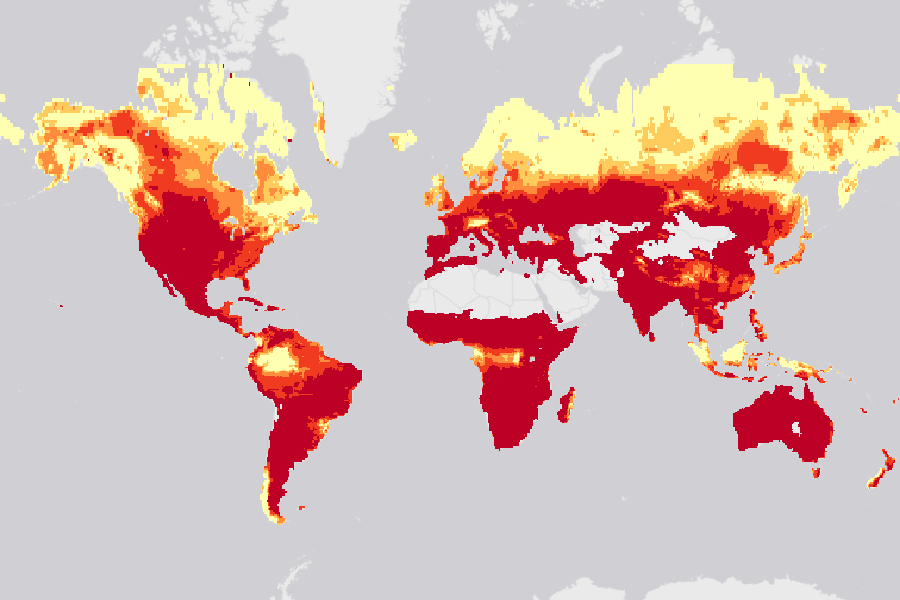
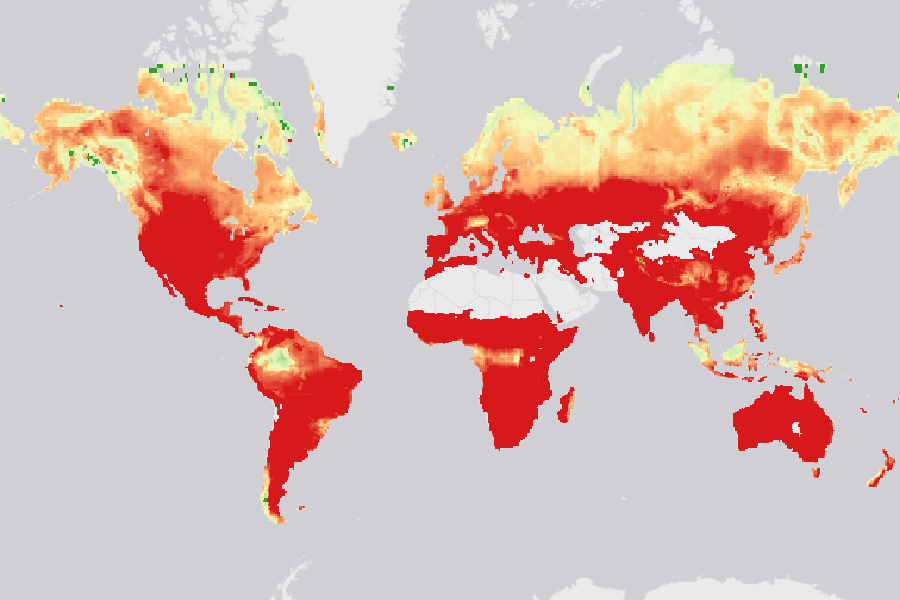
fix: use a render the extension schema accepts
The registry rejected the three collections. The render extension
schema, v2.0.0 and v2.1.0, allows colormap only as an object. The renders
used titiler's interval list.

Each render now uses colormap_name rdylgn with rescale [[50, 0]]. FWI 0
draws green and FWI 50 draws red, the scale of Figure 4 in the technical
basis. The thumbnails use the browser's rdylgn stops.

tests/test_extension_schemas.py validates each STAC object against the
core schema and each declared extension schema, as the registry does.

Refs portolan-sdi/portolan-data#63

diff --git a/tests/test_extension_schemas.py b/tests/test_extension_schemas.py
@@ -1,0 +1,78 @@
+#!/usr/bin/env python3
+"""Every STAC object validates against its core schema and each extension schema.
+
+The registry runs stac-node-validator, which checks each object against the
+STAC 1.1.0 core schema and against every URL in its stac_extensions. This
+gate runs the same checks with jsonschema. stac-check does not cover them
+here, because test_stac_valid.py exempts the collections from a stac-check
+crash.
+
+The gate fetches each schema and every schema it references over HTTPS.
+
+Run: python3 tests/test_extension_schemas.py
+"""
+from __future__ import annotations
+
+import json
+import sys
+import urllib.request
+from functools import cache
+from pathlib import Path
+
+from jsonschema import Draft7Validator, validators
+from referencing import Registry, Resource
+from referencing.jsonschema import DRAFT7
+
+ROOT = Path(__file__).resolve().parent.parent
+CATALOG = ROOT / "catalog"
+CORE = {
+    "Catalog": "https://schemas.stacspec.org/v1.1.0/catalog-spec/json-schema/catalog.json",
+    "Collection": "https://schemas.stacspec.org/v1.1.0/collection-spec/json-schema/collection.json",
+    "Feature": "https://schemas.stacspec.org/v1.1.0/item-spec/json-schema/item.json",
+}
+
+
+@cache
+def fetch(url: str) -> dict:
+    request = urllib.request.Request(url, headers={"User-Agent": "wb-fwi-schemas"})
+    with urllib.request.urlopen(request, timeout=60) as response:
+        return json.loads(response.read())
+
+
+def retrieve(uri: str) -> Resource:
+    return Resource.from_contents(fetch(uri.split("#")[0]), default_specification=DRAFT7)
+
+
+REGISTRY = Registry(retrieve=retrieve)
+
+
+def validate(document: dict, url: str) -> list[str]:
+    schema = fetch(url)
+    cls = validators.validator_for(schema, default=Draft7Validator)
+    validator = cls(schema, registry=REGISTRY)
+    return [
+        f"{'/'.join(str(p) for p in error.absolute_path) or '(root)'}: {error.message[:160]}"
+        for error in sorted(validator.iter_errors(document), key=lambda e: list(e.absolute_path))
+    ]
+
+
+def main() -> int:
+    failures = []
+    count = 0
+    for path in sorted(CATALOG.rglob("*.json")):
+        document = json.loads(path.read_text())
+        rel = path.relative_to(ROOT)
+        for url in [CORE[document["type"]], *document.get("stac_extensions", [])]:
+            count += 1
+            for error in validate(document, url):
+                failures.append(f"{rel}: {url}: {error}")
+    for failure in failures:
+        print(f"FAIL: {failure}")
+    if failures:
+        return 1
+    print(f"PASS: {count} schema validations across the catalog")
+    return 0
+
+
+if __name__ == "__main__":
+    sys.exit(main())

diff --git a/tools/thumbnail.py b/tools/thumbnail.py
@@ -10,8 +10,9 @@ script draws the COG itself:
 
 1. Frame the collection bbox to the 3:2 card shape in Web Mercator.
 2. Draw the Esri World Light Gray basemap, the first basemap the skill tries.
-3. Draw the collection's first render over it, with that render's colormap
-   and nodata. The thumbnail shows what the browser shows.
+3. Draw the collection's first render over it, with the browser's ramp for
+   its colormap_name, its rescale, and its nodata. The thumbnail shows what
+   the browser shows.
 4. Fail when fewer than MIN_DATA_FRACTION of the pixels show data. This is
    the skill's blank probe. A person still looks at the image.
 
@@ -90,16 +91,31 @@ def basemap() -> np.ndarray:
     return np.asarray(world).transpose(2, 0, 1)
 
 
+# The ramps the Portolan browser draws for a render's colormap_name, as
+# [t, [r, g, b]] stops. Copied from src/utils/renders.js in portolan-browser,
+# so the thumbnail matches the map.
+RAMPS = {
+    "rdylgn": [
+        (0.0, (215, 25, 28)),
+        (0.7, (254, 195, 121)),
+        (0.8, (243, 250, 187)),
+        (0.9, (207, 236, 176)),
+        (1.0, (51, 160, 44)),
+    ],
+}
+
+
 def colorize(values: np.ndarray, render: dict) -> np.ndarray:
-    """RGBA from the render's interval colormap. Nodata and gaps stay clear."""
+    """RGBA from the render's named ramp and rescale. Nodata stays clear."""
+    stops = RAMPS[render["colormap_name"]]
+    low, high = render["rescale"][0]
+    t = np.nan_to_num(np.clip((values - low) / ((high - low) or 1), 0, 1))
+    positions = [stop for stop, _ in stops]
     rgba = np.zeros((4,) + values.shape, dtype=np.uint8)
-    intervals = sorted(render["colormap"], key=lambda entry: entry[0][0])
-    top = intervals[-1][0][1]
-    for (low, high), color in intervals:
-        inside = (values >= low) & ((values < high) | ((high == top) & (values == high)))
-        for channel in range(3):
-            rgba[channel][inside] = color[channel]
-        rgba[3][inside] = color[3] if len(color) == 4 else 255
+    for channel in range(3):
+        ramp = [color[channel] for _, color in stops]
+        rgba[channel] = np.round(np.interp(t, positions, ramp)).astype(np.uint8)
+    rgba[3] = np.where(np.isfinite(values), 255, 0)
     nodata = render.get("nodata")
     for value in nodata if isinstance(nodata, list) else [nodata]:
         if value is not None:

diff --git a/tests/test_agent_claims.py b/tests/test_agent_claims.py
@@ -292,16 +292,17 @@ def check_non_monotonic(rp: int | None) -> list[str]:
     return out
 
 
-def check_render_breaks(rp: int | None) -> list[str]:
-    breaks = set()
+def check_render_ramp(rp: int | None) -> list[str]:
     for p in RETURN_PERIODS:
-        for render in collection(p)["renders"].values():
-            assert render["nodata"] == 0, "a render draws the masked cells"
-            assert render["assets"] == ["data"], render["assets"]
-            breaks |= {e for (low, high), _ in render["colormap"] for e in (low, high)}
-    top = max(float(grid(p).max()) for p in RETURN_PERIODS)
-    assert breaks == {0, 15, 20, 30, 50, top}, f"unexpected breaks {sorted(breaks)}"
-    return ["plus 50"]
+        renders = list(collection(p)["renders"].values())
+        assert len(renders) == 1, f"{collection_id(p)} has {len(renders)} renders"
+        render = renders[0]
+        assert render["assets"] == ["data"], render["assets"]
+        assert render["nodata"] == 0, "the render draws the masked cells"
+        assert render["colormap_name"] == "rdylgn", render["colormap_name"]
+        assert "colormap" not in render, "the render also sets a colormap"
+        low, high = render["rescale"][0]
+    return [f"green at FWI {fmt(high)} to red at FWI {fmt(low)}"]
 
 
 def check_self_links(rp: int | None) -> list[str]:

diff --git a/tests/run_all.py b/tests/run_all.py
@@ -18,6 +18,7 @@ TESTS = [
     "test_upload_data.py",
     "test_stac_valid.py",
     "test_conformance.py",
+    "test_extension_schemas.py",      # fetches the schemas over HTTPS
     "test_agent_claims.py",           # needs tools/build.py first
     "test_agent_claims_mutation.py",  # needs tools/build.py first
 ]

diff --git a/catalog/AGENTS.md b/catalog/AGENTS.md
@@ -103,8 +103,9 @@ ThinkHazard! reports a class per administrative unit. This catalog holds the
 grids, not the per-unit classes.
 <!-- quote: pdf | 8 | the scale of administrative units used in ThinkHazard! -->
 
-The browser colors use the same thresholds, plus 50, the top of the color
-scale in Figure 4 of the technical basis. <!-- check: render_breaks -->
+The browser colors run from green at FWI 0 to red at FWI 50 and above, the
+color scale of Figure 4 in the technical basis. The colors show the FWI value,
+not the hazard classes. <!-- check: render_ramp -->
 <!-- quote: pdf | 13 | Figure 4: Modelled yearly maximum 12 noon FWI for return period intervals of 2, 10 and 30 years. FWI is colour coded from green (FWI = 0) to red (FWI = 50). -->
 
 ## Recipes

diff --git a/README.md b/README.md
@@ -62,7 +62,8 @@ CI_LIGHT=1 python3 tests/run_all.py
 ```
 
 `tests/run_all.py` also runs the template gates for links, the publish
-boundary, STAC validity, and Portolan conformance through `rashid`. Each week,
+boundary, STAC validity, extension schemas, and Portolan conformance
+through `rashid`. Each week,
 the [live claims](.github/workflows/live-claims.yml) workflow repeats the
 claims gate against the published objects.
 
